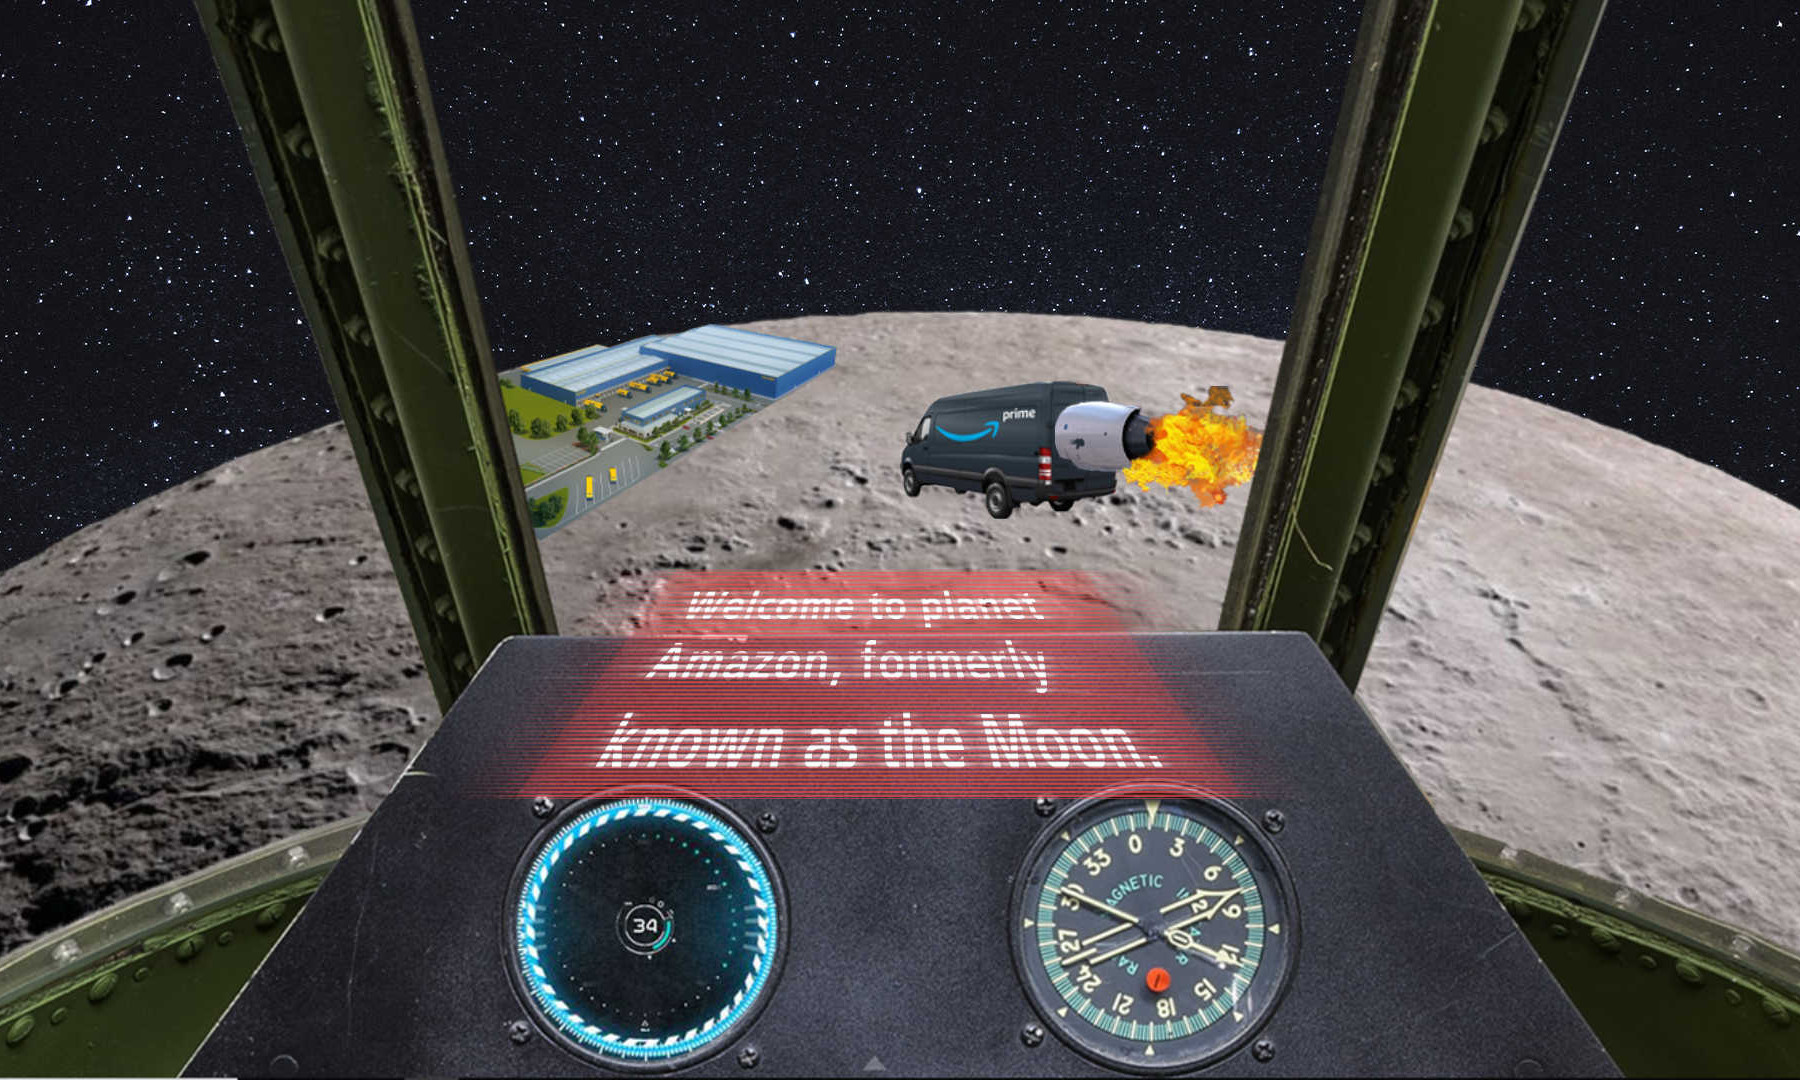
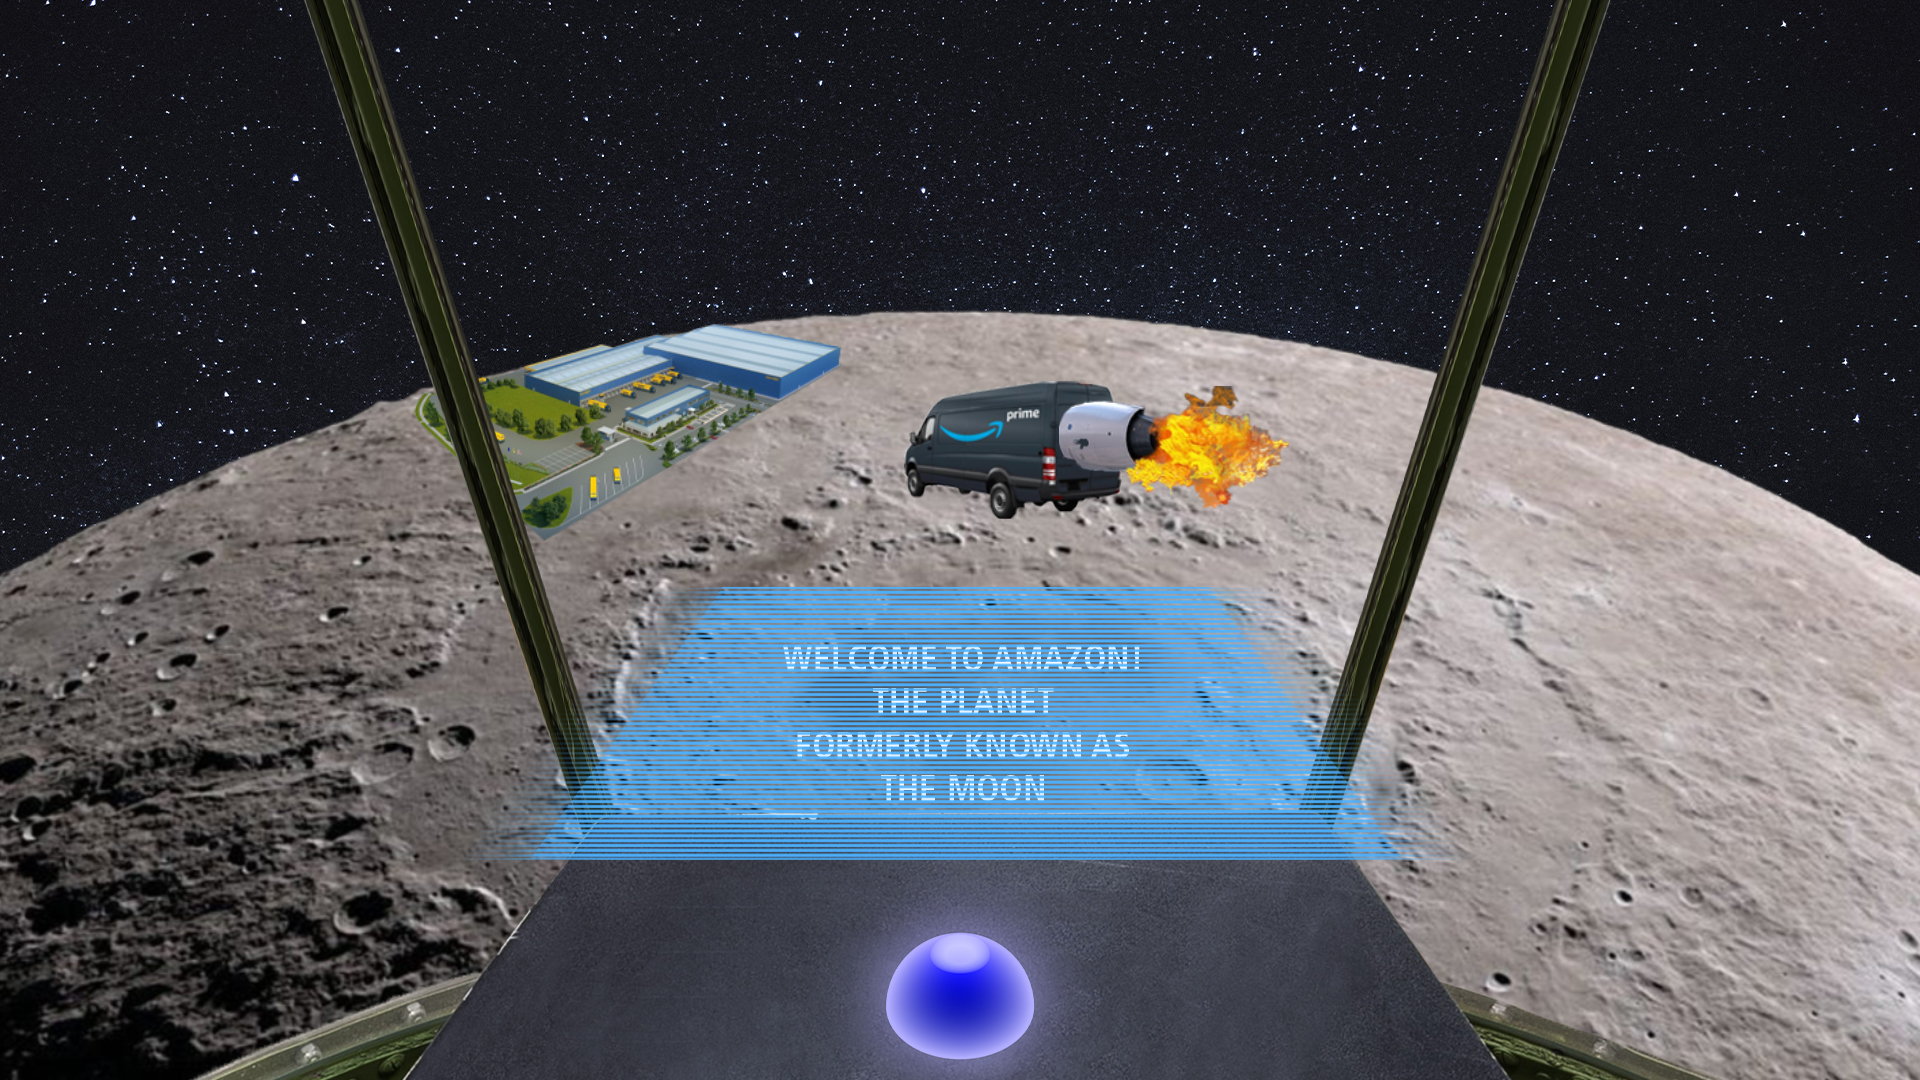
P3: added boss explosions, fixed charge reload bug, tuned in difficulty

diff --git a/Projects/Project3/js/script.js b/Projects/Project3/js/script.js
@@ -72,7 +72,7 @@ let gameClock;
 //**Variable  assigned to the setInterval function (controlling boss bullet timer)
 let bossBulletTimer
 //**Vatiable setting about of time between boss bullet shots (milliseconds)
-let bossBulletStartInterval = 5000;
+let bossBulletStartInterval = 6000;
 let bossBulletInterval = bossBulletStartInterval;
 //**variables to set the amount of time until planet has been reached
 let gameTime = 100;
@@ -82,7 +82,7 @@ let secondsPassed = 0;
 //**Variable  assigned to the setInterval function (controlling spawn timer)
 let spawnTimer;
 //number of milliseconds between enemy Spawns
-let spawnInterval = 4000;
+let spawnInterval = 3000;
 let newSpawnInterval = spawnInterval;
 
 
@@ -94,8 +94,8 @@ let newSpawnInterval = spawnInterval;
 // Preloads the various images and sounds for the game
 function preload() {
   //images
-  intro1BgImg = loadImage('assets/images/borderPt1.jpg');
-  intro2BgImg = loadImage('assets/images/borderPt2.jpg');
+  intro1BgImg = loadImage('assets/images/stage1.jpg');
+  intro2BgImg = loadImage('assets/images/stage2.jpg');
   gameOverBgImg = loadImage('assets/images/gameOverImg.jpg');
   gameWonBgImg = loadImage('assets/images/gameWonImg.jpg');
   backgroundImage = loadImage('assets/images/backgroundImg.jpg');
@@ -106,10 +106,16 @@ function preload() {
   enemyImage[1] = loadImage('assets/images/drone1Damage.png');
   bossImage[0] = loadImage('assets/images/boss0damage.png');
   bossImage[1] = loadImage('assets/images/boss0damage.png');
-  bossImage[2] = loadImage('assets/images/boss1damage.png');
-  bossImage[3] = loadImage('assets/images/boss1damage.png');
-  bossImage[4] = loadImage('assets/images/boss2damage.png');
-  bossImage[5] = loadImage('assets/images/boss2damage.png');
+  bossImage[2] = loadImage('assets/images/boss0damage.png');
+  bossImage[3] = loadImage('assets/images/boss0damage.png');
+  bossImage[4] = loadImage('assets/images/boss1damage.png');
+  bossImage[5] = loadImage('assets/images/boss1damage.png');
+  bossImage[6] = loadImage('assets/images/boss1damage.png');
+  bossImage[7] = loadImage('assets/images/boss1damage.png');
+  bossImage[8] = loadImage('assets/images/boss2damage.png');
+  bossImage[9] = loadImage('assets/images/boss2damage.png');
+  bossImage[10] = loadImage('assets/images/boss2damage.png');
+  bossImage[11] = loadImage('assets/images/boss2damage.png');
   bossBulletImg[0] = loadImage('assets/images/bossBullet0.png');
   bossBulletImg[1] = loadImage('assets/images/bossBullet1.png');
   bossBulletImg[2] = loadImage('assets/images/bossBullet2.png');
@@ -146,12 +152,14 @@ function preload() {
 
   bossHello = loadSound('assets/sounds/bossHello.wav');
   bossHello.playMode('untilDone');
+  bossHello.setVolume(2);
 
   evilLaugh = loadSound('assets/sounds/evilLaugh.wav');
   evilLaugh.playMode('untilDone');
 
   bossDeath = loadSound('assets/sounds/bossDeath.wav');
   bossDeath.playMode('untilDone');
+  bossDeath.setVolume(2);
 
   gameOverBells = loadSound('assets/sounds/gameOverBells.mp3');
   gameOverBells.playMode('untilDone')
@@ -290,7 +298,6 @@ function displayExplosions() {
   //we iterate through the array ,
   for (let ex = 0; ex < explosions.length; ex++) {
     explosions[ex].display();
-    console.log(explosions[ex].currentFrame);
     if (explosions[ex].currentFrame >= explosionMaxFrame){
       explosions[ex].image.reset();
       explosions.splice(ex, 1);
@@ -328,7 +335,10 @@ function handlePhazers() {
         //and increase the frequency of boss bullets
         if(enemies[e] instanceof Boss){
           console.log('boss');
+
           bossBulletInterval += -1000;
+          let explosion = new BossExplosion(enemies[e].x, enemies[e].y, enemies[e].size);
+          explosions.push(explosion);
           resetBossBulletTimer(bossBulletInterval);
           enemies[e].x = random(0, width);
           enemies[e].y = random(0, cockpitVerticalMask);
@@ -340,17 +350,21 @@ function handlePhazers() {
         //if the boss' hitcount reaches its max, play the explosion sound and
         //remove the enemy and the phazer from their respective arrays
         if (enemies[e].hitCount >= enemies[e].maxHitcount && enemies[e] instanceof Boss) {
-          startGameTimer();
           bossDeath.play();
+          for (let i = 0; i < 60; i++){
+            let explosion = new BossExplosion(enemies[e].x + random(-100, 100), enemies[e].y + random(-100, 100), enemies[e].size);
+            explosions.push(explosion);
+          }
           planetAmazon.resume();
           enemies.splice(e, 1);
           phazers.splice(p, 1);
+          startGameTimer();
           break;
         }
         //if the enemy's hitcount reaches its max, play the explosion sound and
         //remove the enemy and the phazer from their respective arrays
         else if (enemies[e].hitCount >= enemies[e].maxHitcount) {
-            let explosion = new EnemyExplosion(enemies[e].x, enemies[e].y, enemies[e].size);
+            let explosion = new EnemyExplosion(enemies[e].x, enemies[e].y, enemies[e].size * 2);
             explosions.push(explosion);
             secondHit.play();
             enemies.splice(e, 1);
@@ -388,14 +402,19 @@ function gameTimer() {
   secondsPassed++
   // FIRST PHASE OF BATTLE
   if (secondsPassed === 25 * gameTime / 100) {
-    newSpawnInterval -= 1000;
+    newSpawnInterval = 75 * spawnInterval / 100;
     console.log('spawing every ' + newSpawnInterval);
     startEnemyTimer(newSpawnInterval);
     // SECOND PHASE OF BATTLE
   } else if (secondsPassed === 50 * gameTime / 100) {
-    newSpawnInterval -= 1500;
+    newSpawnInterval = 50 * spawnInterval / 100;
     console.log('spawing every ' + newSpawnInterval);
     startEnemyTimer(newSpawnInterval)
+    //third stage of battle
+  } else if (secondsPassed === 75 * gameTime / 100) {
+      newSpawnInterval = 25 * spawnInterval / 100;
+      console.log('spawing every ' + newSpawnInterval);
+      startEnemyTimer(newSpawnInterval)
     //BOSS BATTLE
   } else if (secondsPassed === 90 * gameTime / 100) {
     console.log('BOSS BATTLE');
@@ -491,7 +510,7 @@ function startEnemyTimer(interval) {
 //
 //Spawns a new enemy, by creating a new enemy object, and pushing it to the enemies[] array
 function spawnNewEnemy() {
-  let newEnemy = new Enemy(random(0, width), random(0, cockpitVerticalMask), width * .25 / 100, 1);
+  let newEnemy = new Enemy(random(0, width), random(0, cockpitVerticalMask), width * .30 / 100, 1);
   //put the new enemy at the beginning of the array(unshift), so it will be displayed behind oldest enemies
   enemies.unshift(newEnemy);
 }
@@ -542,5 +561,6 @@ function resetGame() {
   secondsToArrival = gameTime;
   secondsPassed = 0;
   player.shieldHealth = player.maxShieldHealth;
+  player.charge = player.maxCharge;
   planetAmazon.reset();
 }

diff --git a/Projects/Project3/js/Boss.js b/Projects/Project3/js/Boss.js
@@ -91,3 +91,30 @@ class Boss {
     pop();
   }
 }
+
+//==========================
+// ~~~~~BossExplosion~~~~~~
+//==========================
+// This class simply displays the explosion gif when the bos has been hit.
+// When the boss has reached it's max hitcount, the explosions go apeshit.
+class BossExplosion {
+  constructor(x, y, size) {
+    this.image = explosionGif;
+    this.x = x;
+    this.y = y;
+    this.size = size;
+    this.currentFrame;
+  }
+
+  //================================//
+  //           display()
+  //================================//
+  // Displays the gif, and keeps track as to which frame it is on.
+  display(){
+    push();
+    imageMode(CENTER);
+    image(this.image, this.x, this.y, this.size * 2, this.size * 2);
+    this.currentFrame = this.image.getCurrentFrame();
+    pop();
+  }
+}

diff --git a/Projects/Project3/js/Phazers.js b/Projects/Project3/js/Phazers.js
@@ -18,8 +18,9 @@ class Phazers {
     push()
     noStroke()
     fill(100, 200, 255, 255);
-    ellipse(this.x -this.size *2.5, this.y + this.size*10, this.size);
-    ellipse(this.x + this.size *2.5, this.y + this.size*10, this.size);
+    // ellipse(this.x -this.size *2.5, this.y + this.size*10, this.size);
+    // ellipse(this.x + this.size *2.5, this.y + this.size*10, this.size);
+    ellipse(this.x, this.y, this.size*2);
     pop();
     this.size = this.size - 1;
   }

diff --git a/Projects/Project3/js/Player.js b/Projects/Project3/js/Player.js
@@ -91,7 +91,7 @@ class Player {
     this.x = constrain(this.x, 0, width);
     this.y = constrain(this.y, 0, cockpitVerticalMask);
     //increase shield health slowly, constraining it within max and min
-    this.shieldHealth += .08*this.maxShieldHealth/100;
+    this.shieldHealth += .01*this.maxShieldHealth/100;
     this.shieldHealth = constrain(this.shieldHealth, 0, this.maxShieldHealth);
 
   }
